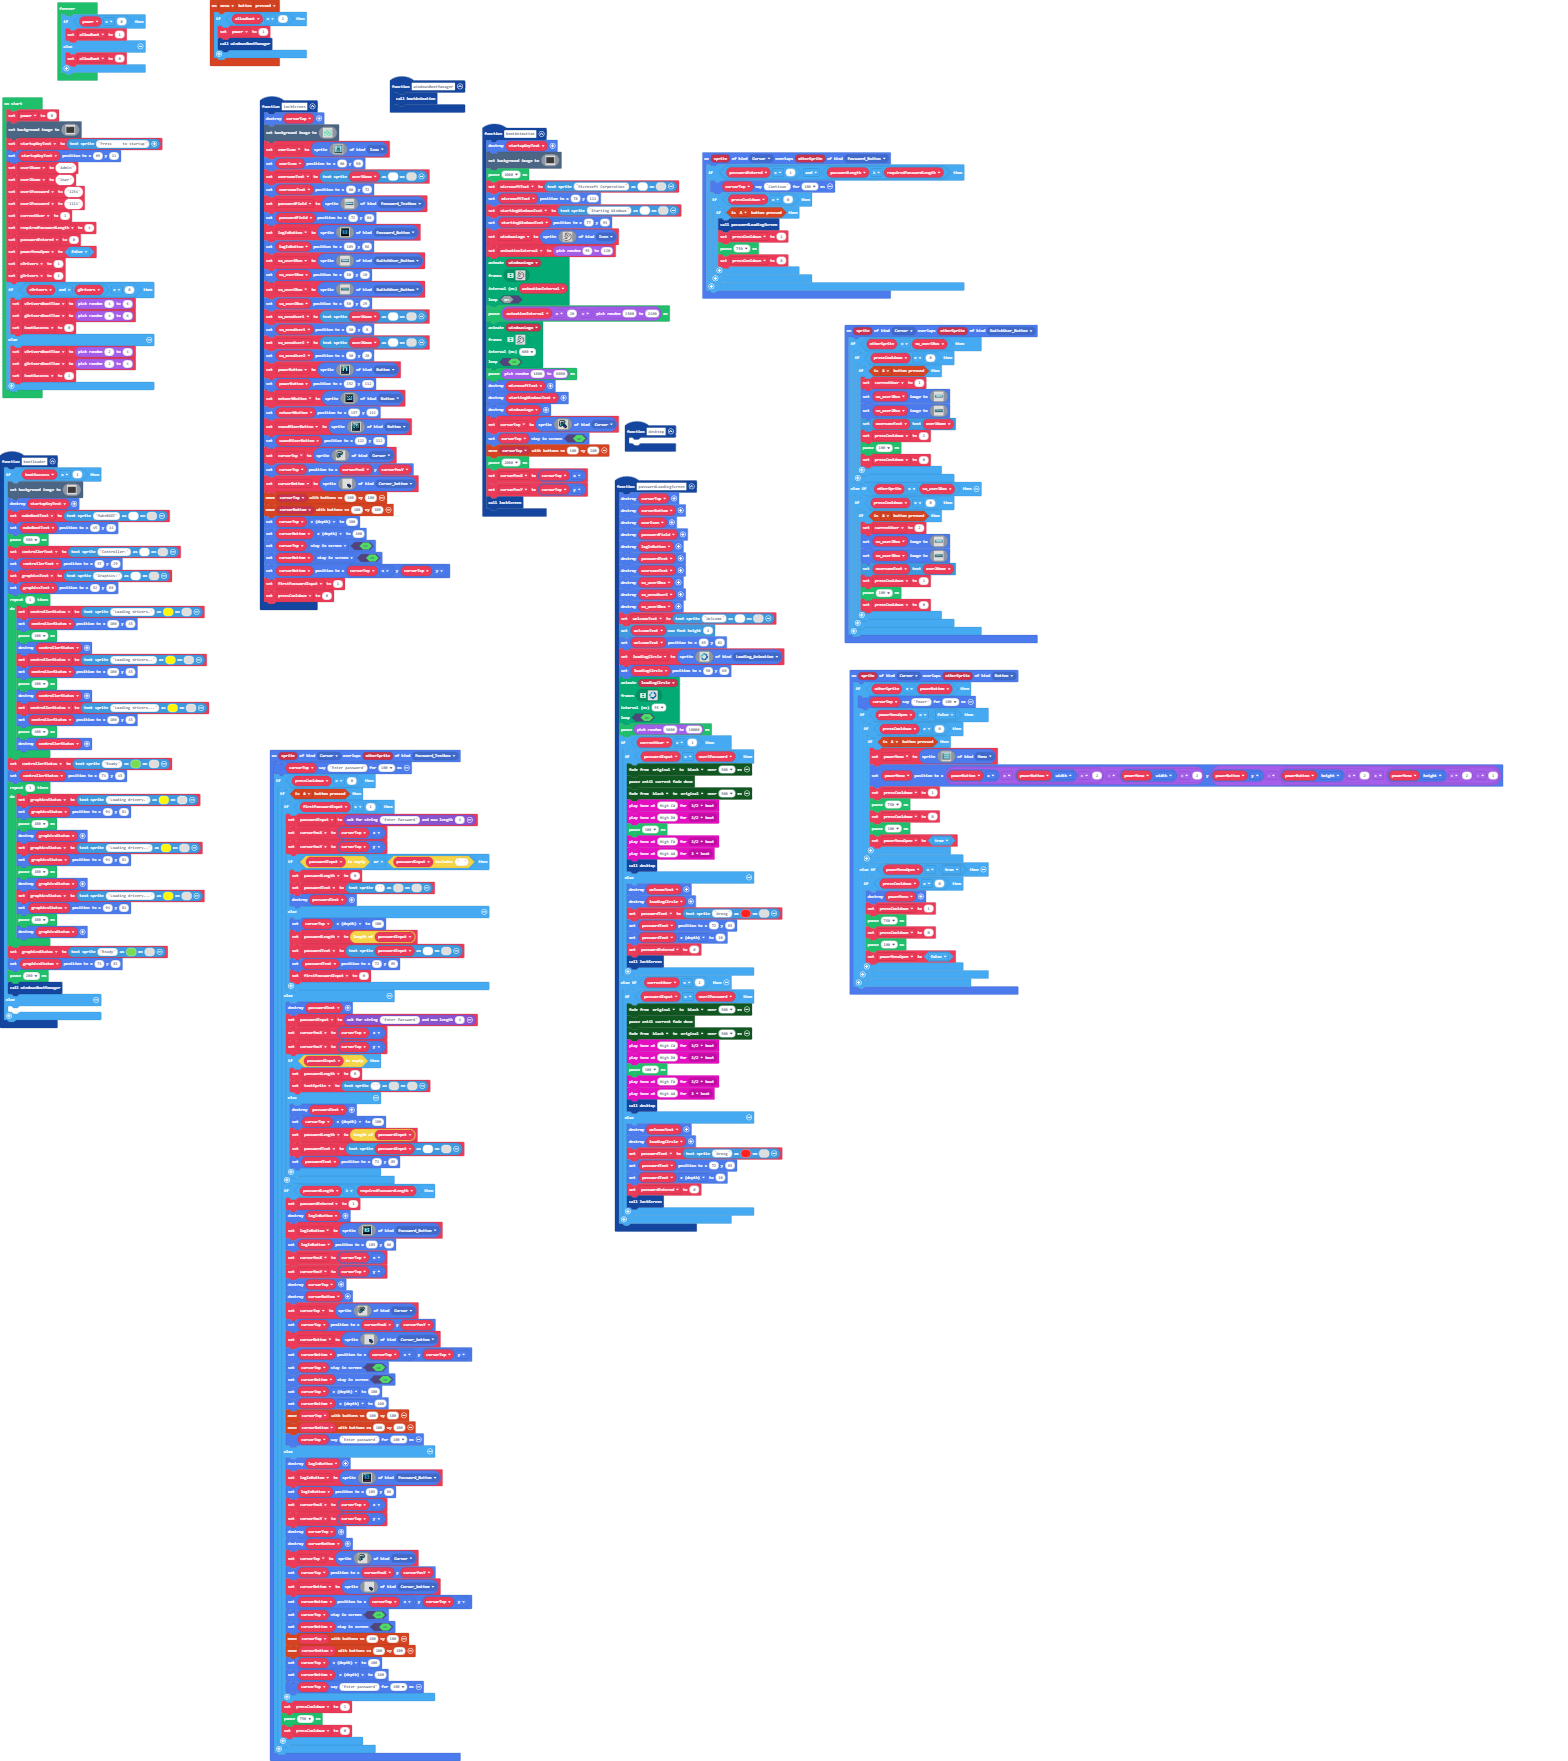
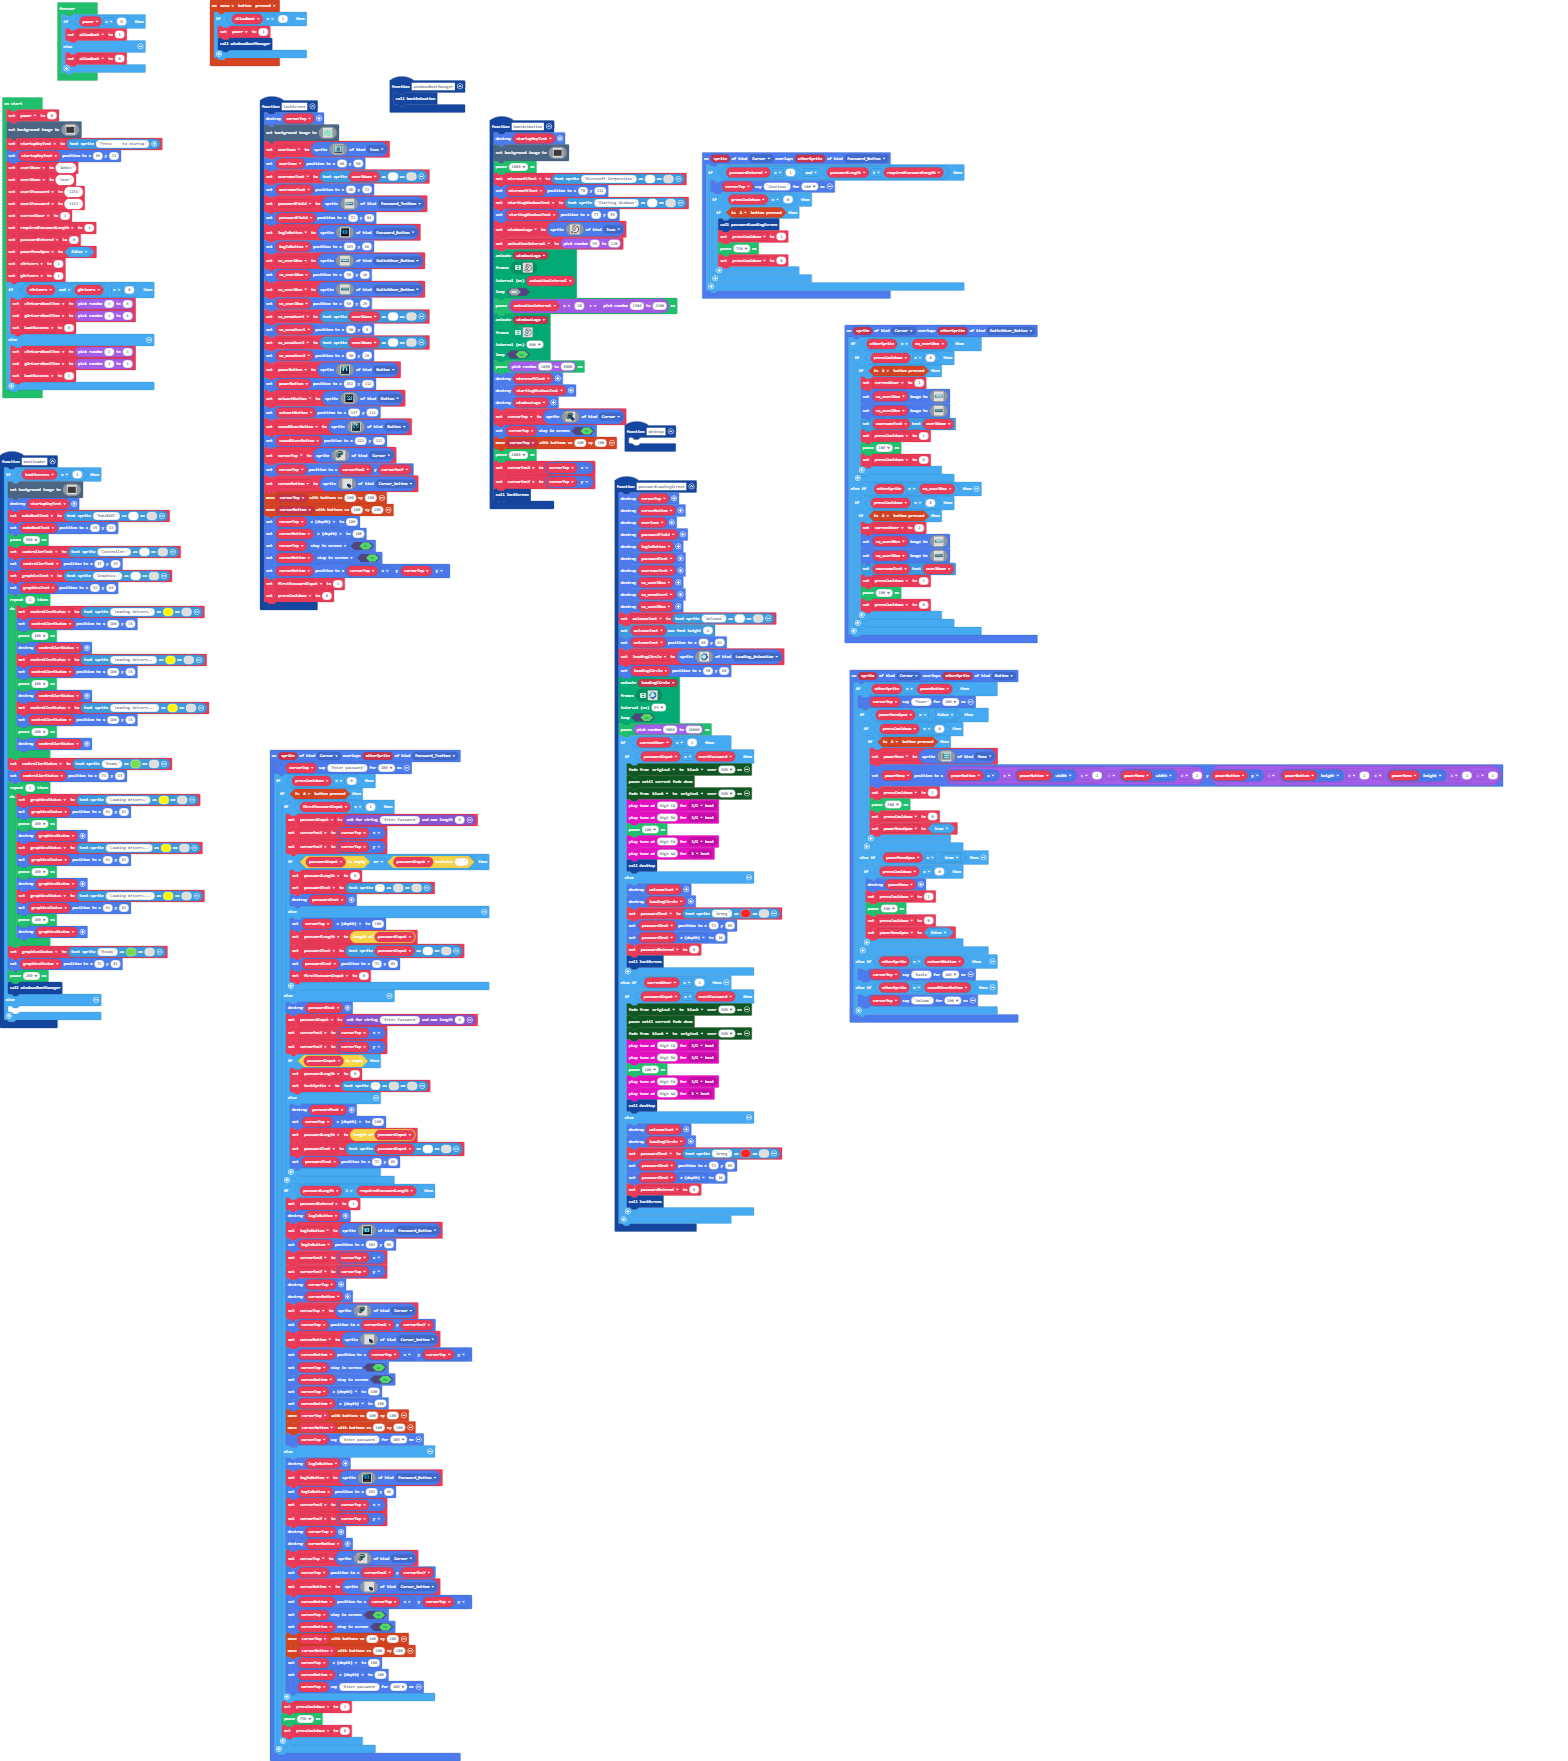
Update pxt.json, main.blocks, main.ts

Changed region(s): [[0.2812, 0.0625, 0.4375, 0.3123], [0.5312, 0.4685, 0.6562, 0.5934], [0.625, 0.3748, 0.6562, 0.406]]

diff --git a/main.ts b/main.ts
@@ -666,9 +666,8 @@ sprites.onOverlap(SpriteKind.Cursor, SpriteKind.Button, function (sprite, otherS
                         `, SpriteKind.Menu)
                     powerMenu.setPosition(powerButton.x + powerButton.width / 2 - powerMenu.width / 2, powerButton.y - (powerButton.height / 2 + (powerMenu.height / 2 - 1)))
                     pressCooldown = 1
-                    pause(750)
+                    pause(500)
                     pressCooldown = 0
-                    pause(100)
                     powerMenuOpen = true
                 }
             }
@@ -676,12 +675,15 @@ sprites.onOverlap(SpriteKind.Cursor, SpriteKind.Button, function (sprite, otherS
             if (pressCooldown == 0) {
                 powerMenu.destroy()
                 pressCooldown = 1
-                pause(750)
+                pause(500)
                 pressCooldown = 0
-                pause(100)
                 powerMenuOpen = false
             }
         }
+    } else if (otherSprite == networkButton) {
+        cursorTop.say("Radio", 100)
+    } else if (otherSprite == soundMixerButton) {
+        cursorTop.say("Volume", 100)
     }
 })
 function desktop () {
@@ -967,10 +969,10 @@ function lockScreen () {
         f 1 f f f f f f f f f f f f 6 f 
         f 1 f 9 9 9 9 9 9 9 9 9 9 f 6 f 
         f 9 f 9 9 9 f f 9 f f 9 9 f 8 f 
-        f 9 f 9 9 f 1 f 9 1 1 f 9 f 8 f 
-        f 6 f 9 f 9 9 f 9 f 9 f 9 f 8 f 
-        f 6 f 9 f 6 6 f 9 f 6 f 9 f 8 f 
-        f 6 f 9 9 f 8 f 9 8 8 f 9 f 8 f 
+        f 9 f 9 9 f 1 f 9 1 9 f 9 f 8 f 
+        f 6 f 9 f 6 9 f 9 f 6 f 9 f 8 f 
+        f 6 f 9 f 8 6 f 9 f 6 f 9 f 8 f 
+        f 6 f 9 9 f 8 f 9 6 8 f 9 f 8 f 
         f 6 f 9 9 9 f f 9 f f 9 9 f 8 f 
         f 6 f 9 9 9 9 9 9 9 9 9 9 f 8 f 
         f 6 f f f f f f f f f f f f 8 f 
@@ -1182,7 +1184,7 @@ sprites.onOverlap(SpriteKind.Cursor, SpriteKind.Password_Textbox, function (spri
     if (pressCooldown == 0) {
         if (controller.A.isPressed()) {
             if (firstPasswordInput == 1) {
-                passwordInput = game.askForString("Enter Password", 4)
+                passwordInput = game.askForString("Enter Password", 6)
                 cursorPosX = cursorTop.x
                 cursorPosY = cursorTop.y
                 if (passwordInput.isEmpty() || passwordInput.includes("  ")) {
@@ -1198,7 +1200,7 @@ sprites.onOverlap(SpriteKind.Cursor, SpriteKind.Password_Textbox, function (spri
                 }
             } else {
                 passwordText.destroy()
-                passwordInput = game.askForString("Enter Password", 4)
+                passwordInput = game.askForString("Enter Password", 6)
                 cursorPosX = cursorTop.x
                 cursorPosY = cursorTop.y
                 if (passwordInput.isEmpty()) {
@@ -2067,8 +2069,6 @@ let controllerText: TextSprite = null
 let makeBootText: TextSprite = null
 let firstPasswordInput = 0
 let cursorBottom: Sprite = null
-let soundMixerButton: Sprite = null
-let networkButton: Sprite = null
 let su_menuUser2: TextSprite = null
 let su_menuUser1: Sprite = null
 let su_user2Box: Sprite = null
@@ -2079,6 +2079,8 @@ let usernameText: TextSprite = null
 let userIcon: Sprite = null
 let powerMenu: Sprite = null
 let pressCooldown = 0
+let soundMixerButton: Sprite = null
+let networkButton: Sprite = null
 let powerButton: Sprite = null
 let cursorPosY = 0
 let cursorPosX = 0
